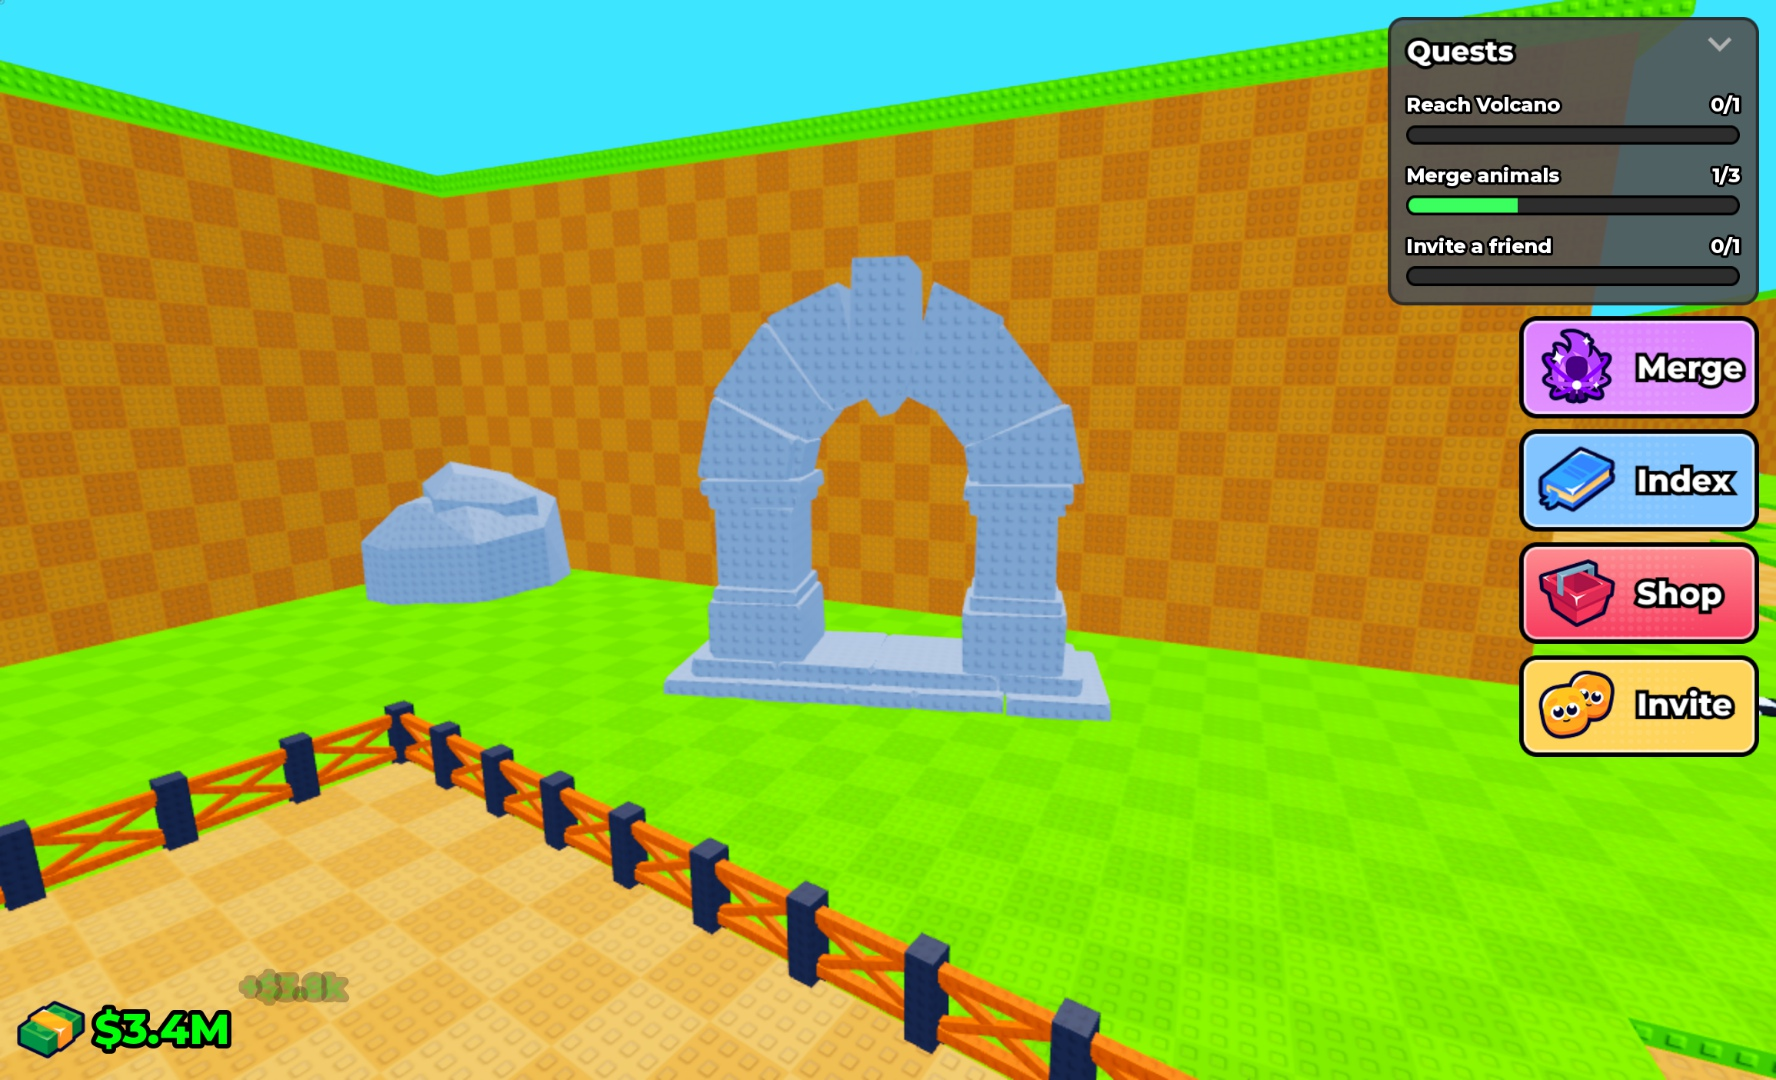
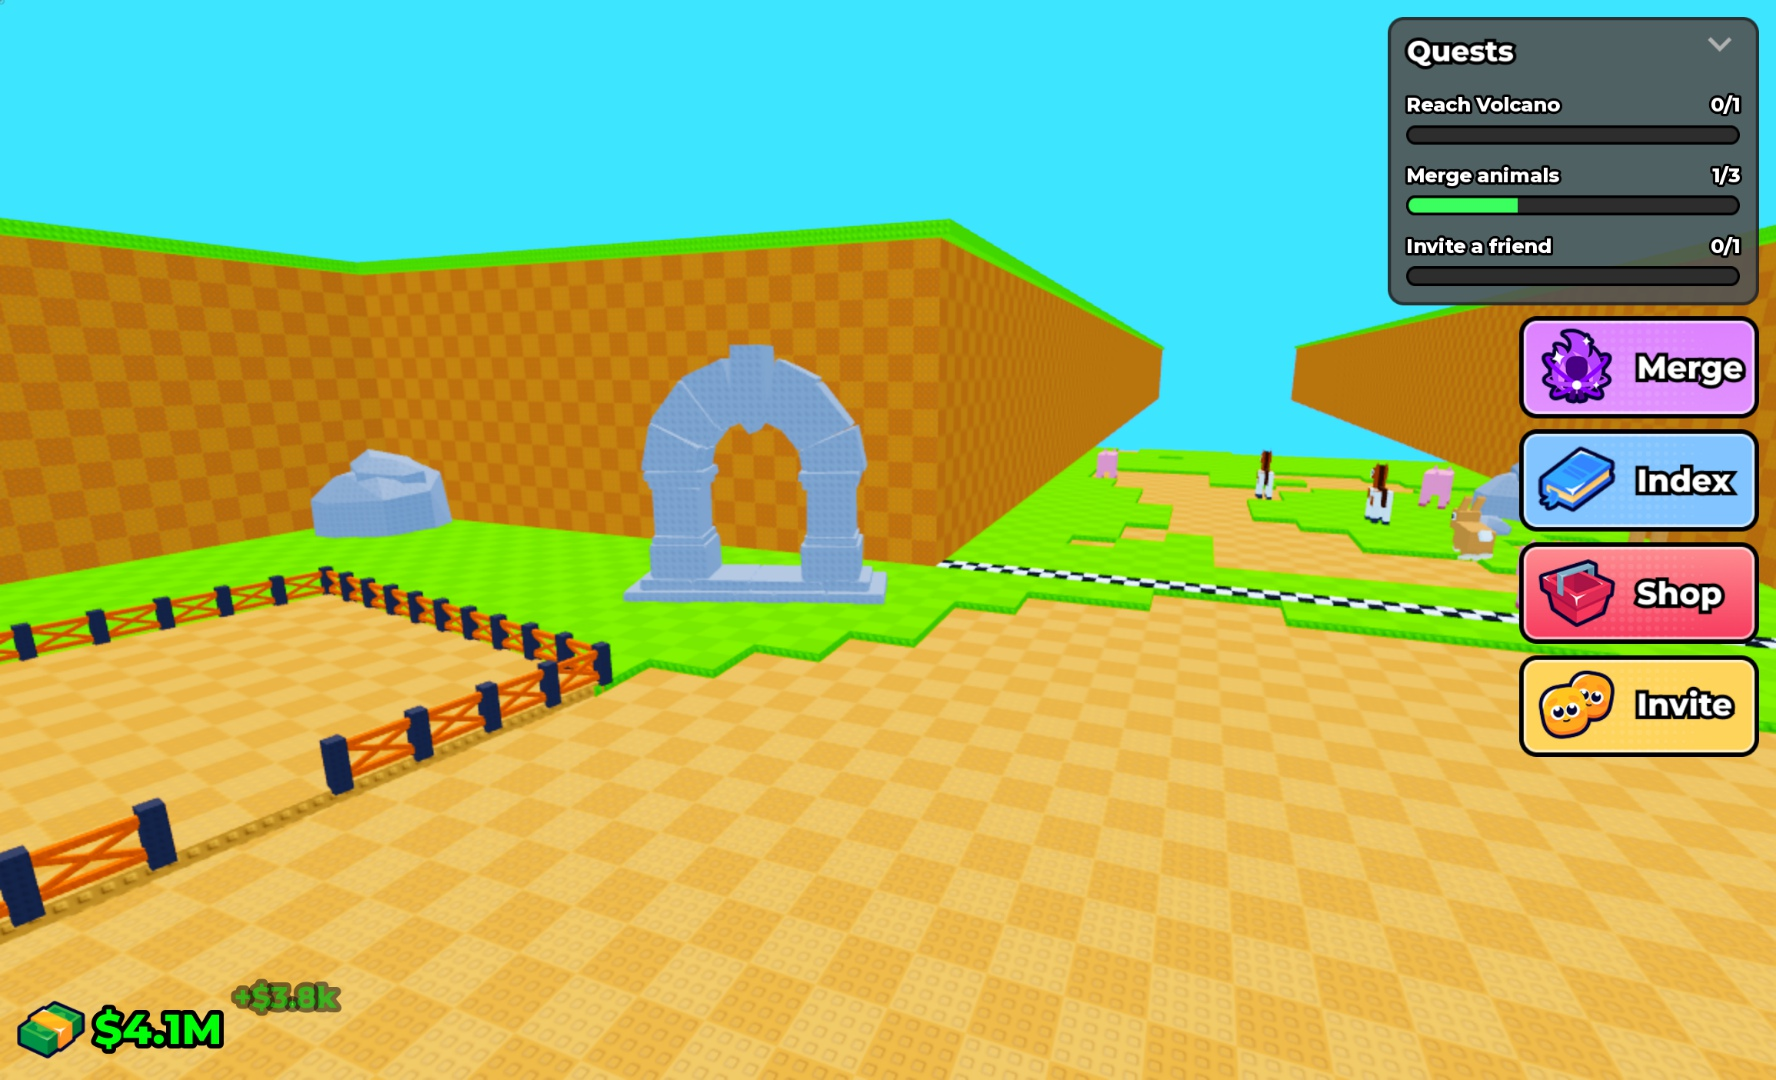
Portal gate moved to the grass left of the start line, by the front-left pen (QM)

diff --git a/tools/arc_base.py b/tools/arc_base.py
@@ -304,8 +304,8 @@ end
 
 -- The rocks round the walls: everything that was in BaseDecor before goes (QM, Oct 10).
 -- (Rerunning this clears BaseDecor.PortalGate too, QM's stone gate where Carl stood since
--- Oct 12: mesh 118189330543537, design/portal/PortalGate.obj, unscaled, at (-104, 0, 20)
--- turned 15 degrees, the rocks' colour and stud material. Put it back after.)
+-- Oct 12: mesh 118189330543537, design/portal/PortalGate.obj, unscaled, at (-74, 0, 22)
+-- turned 20 degrees, the rocks' colour and stud material. Put it back after.)
 local AssetService = game:GetService("AssetService")
 local decor = world:FindFirstChild("BaseDecor") or Instance.new("Folder")
 decor.Name = "BaseDecor"
